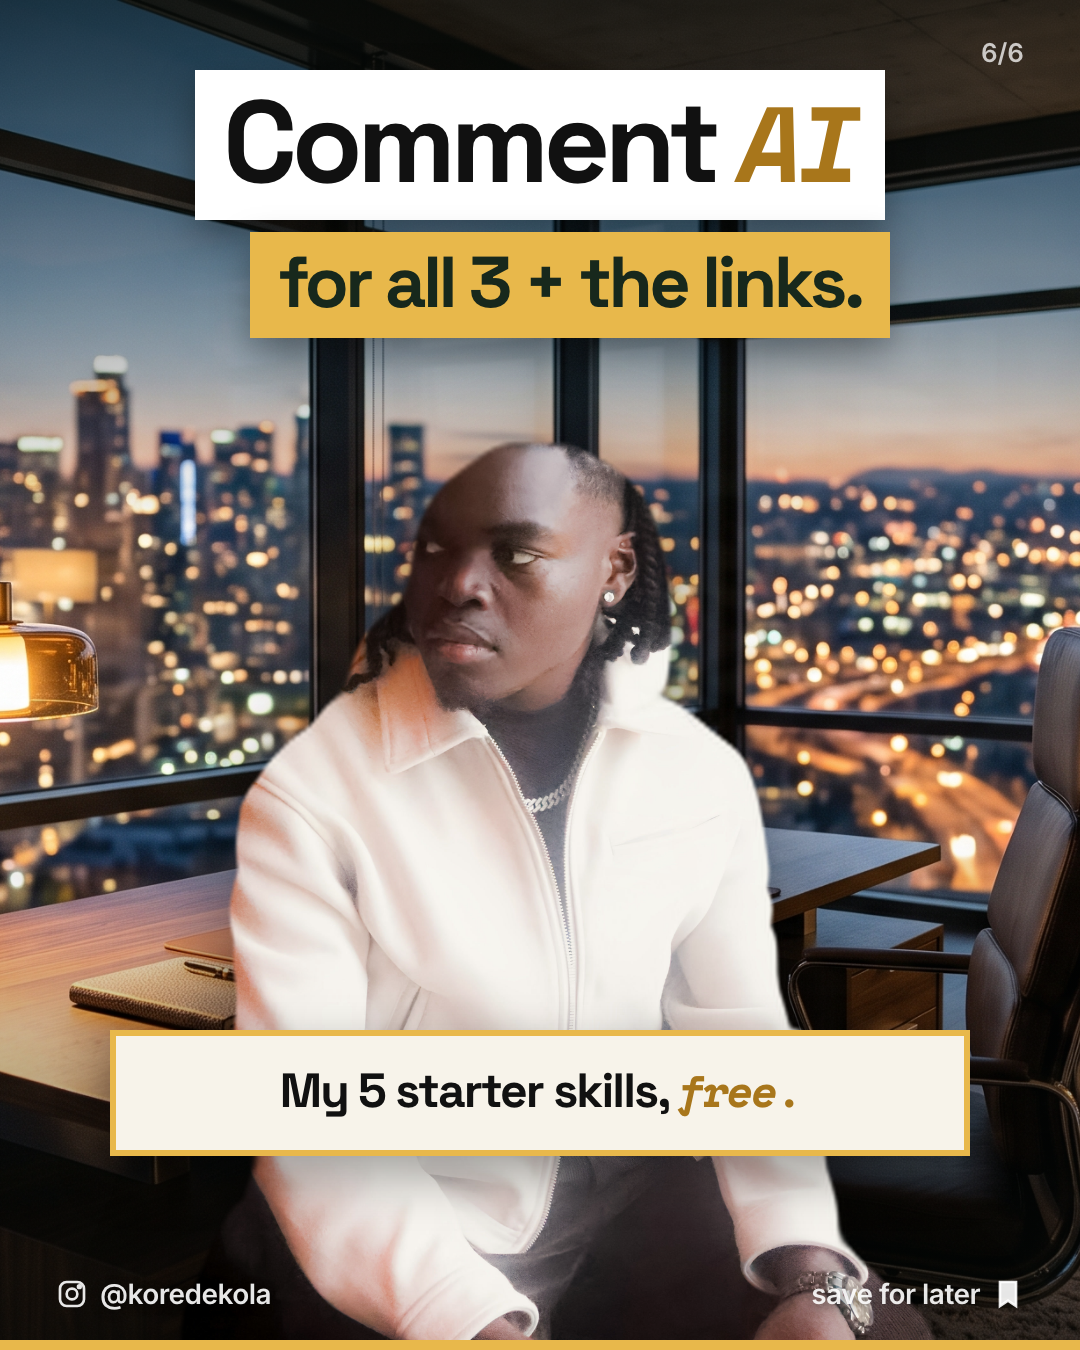
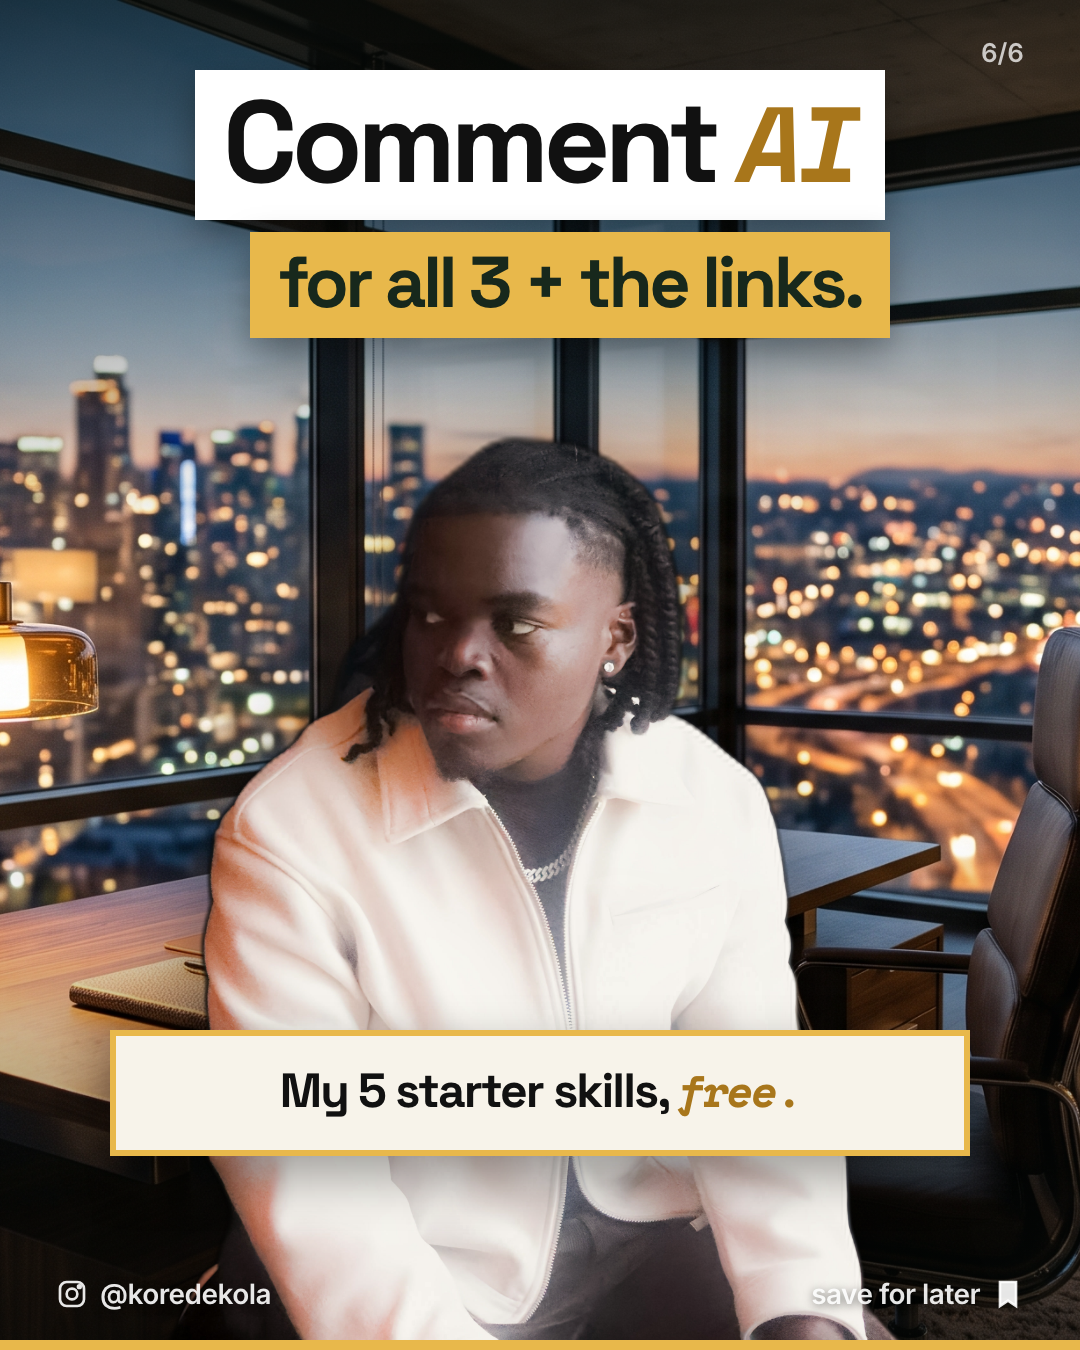
Lounge cutout rebuilt full-frame: head no longer sliced; cutouts sit just under titles

diff --git a/CLAUDE.md b/CLAUDE.md
@@ -67,7 +67,7 @@ Formats: `static`, `carousel`, `video`. Vary aspect ratios across the week (1:1,
 
 - **What-if and you-decide formats (Korede, 2026-10-24)**: make BOTH types in equal numbers each week, with different purposes. (1) Realistic what-if / you-decide: grounded, plausible outcomes told as a calm documentary (photoreal stills with slow push-ins, HUD with stage, dateline, 1 sourced number per stage and a result tag, real precedents, sources in Notes), pure top of funnel: no offer funnel, only "follow for part 2" or a question. (2) Gamified what-if / you-decide: pixel cast, game UI, timeline rail, A/B choice with countdown; these can funnel to freebies and keywords. Also use the "every level" comparison format. Skills: .claude/skills/what-if-reel, .claude/skills/you-decide-reel; research: research/ig-inspiration-2026-10-24.md.
 
-- **Carousel type (Korede, 2026-10-24)**: no Claude-style serif (no Instrument Serif or Playfair on carousels). Brand type: Space Grotesk headlines, Space Mono bold italic for accent words (Content Systems' mono), Inter body. Covers: title sits clearly above Korede's head (a slight hair overlap at most), never hidden behind it. Korede's photos are AI-upscaled and cleaned (assets/photos/korede/*.jpg, Recraft crisp upscale blended with the original for texture): never grainy.
+- **Carousel type (Korede, 2026-10-24)**: no Claude-style serif (no Instrument Serif or Playfair on carousels). Brand type: Space Grotesk headlines, Space Mono bold italic for accent words (Content Systems' mono), Inter body. Covers: title sits clearly above Korede's head (a slight hair overlap at most), never hidden behind it. Cutouts must be full-frame (the whole head, nothing cropped at the PNG edge): make them with scripts/cutout.py on the full photo, never crop the cutout file. Korede's photos are AI-upscaled and cleaned (assets/photos/korede/*.jpg, Recraft crisp upscale blended with the original for texture): never grainy.
 
 ## Content rules
 - Topics: our business (logistics/3PL, e-commerce, AI systems) plus what's trending in AI right now. Each week starts with fresh research (`content/<week>/trends.md`, sources and dates cited, nothing older than 14 days) and the plan mixes trending stories into the pillars, always tied back to what it means for operators.
